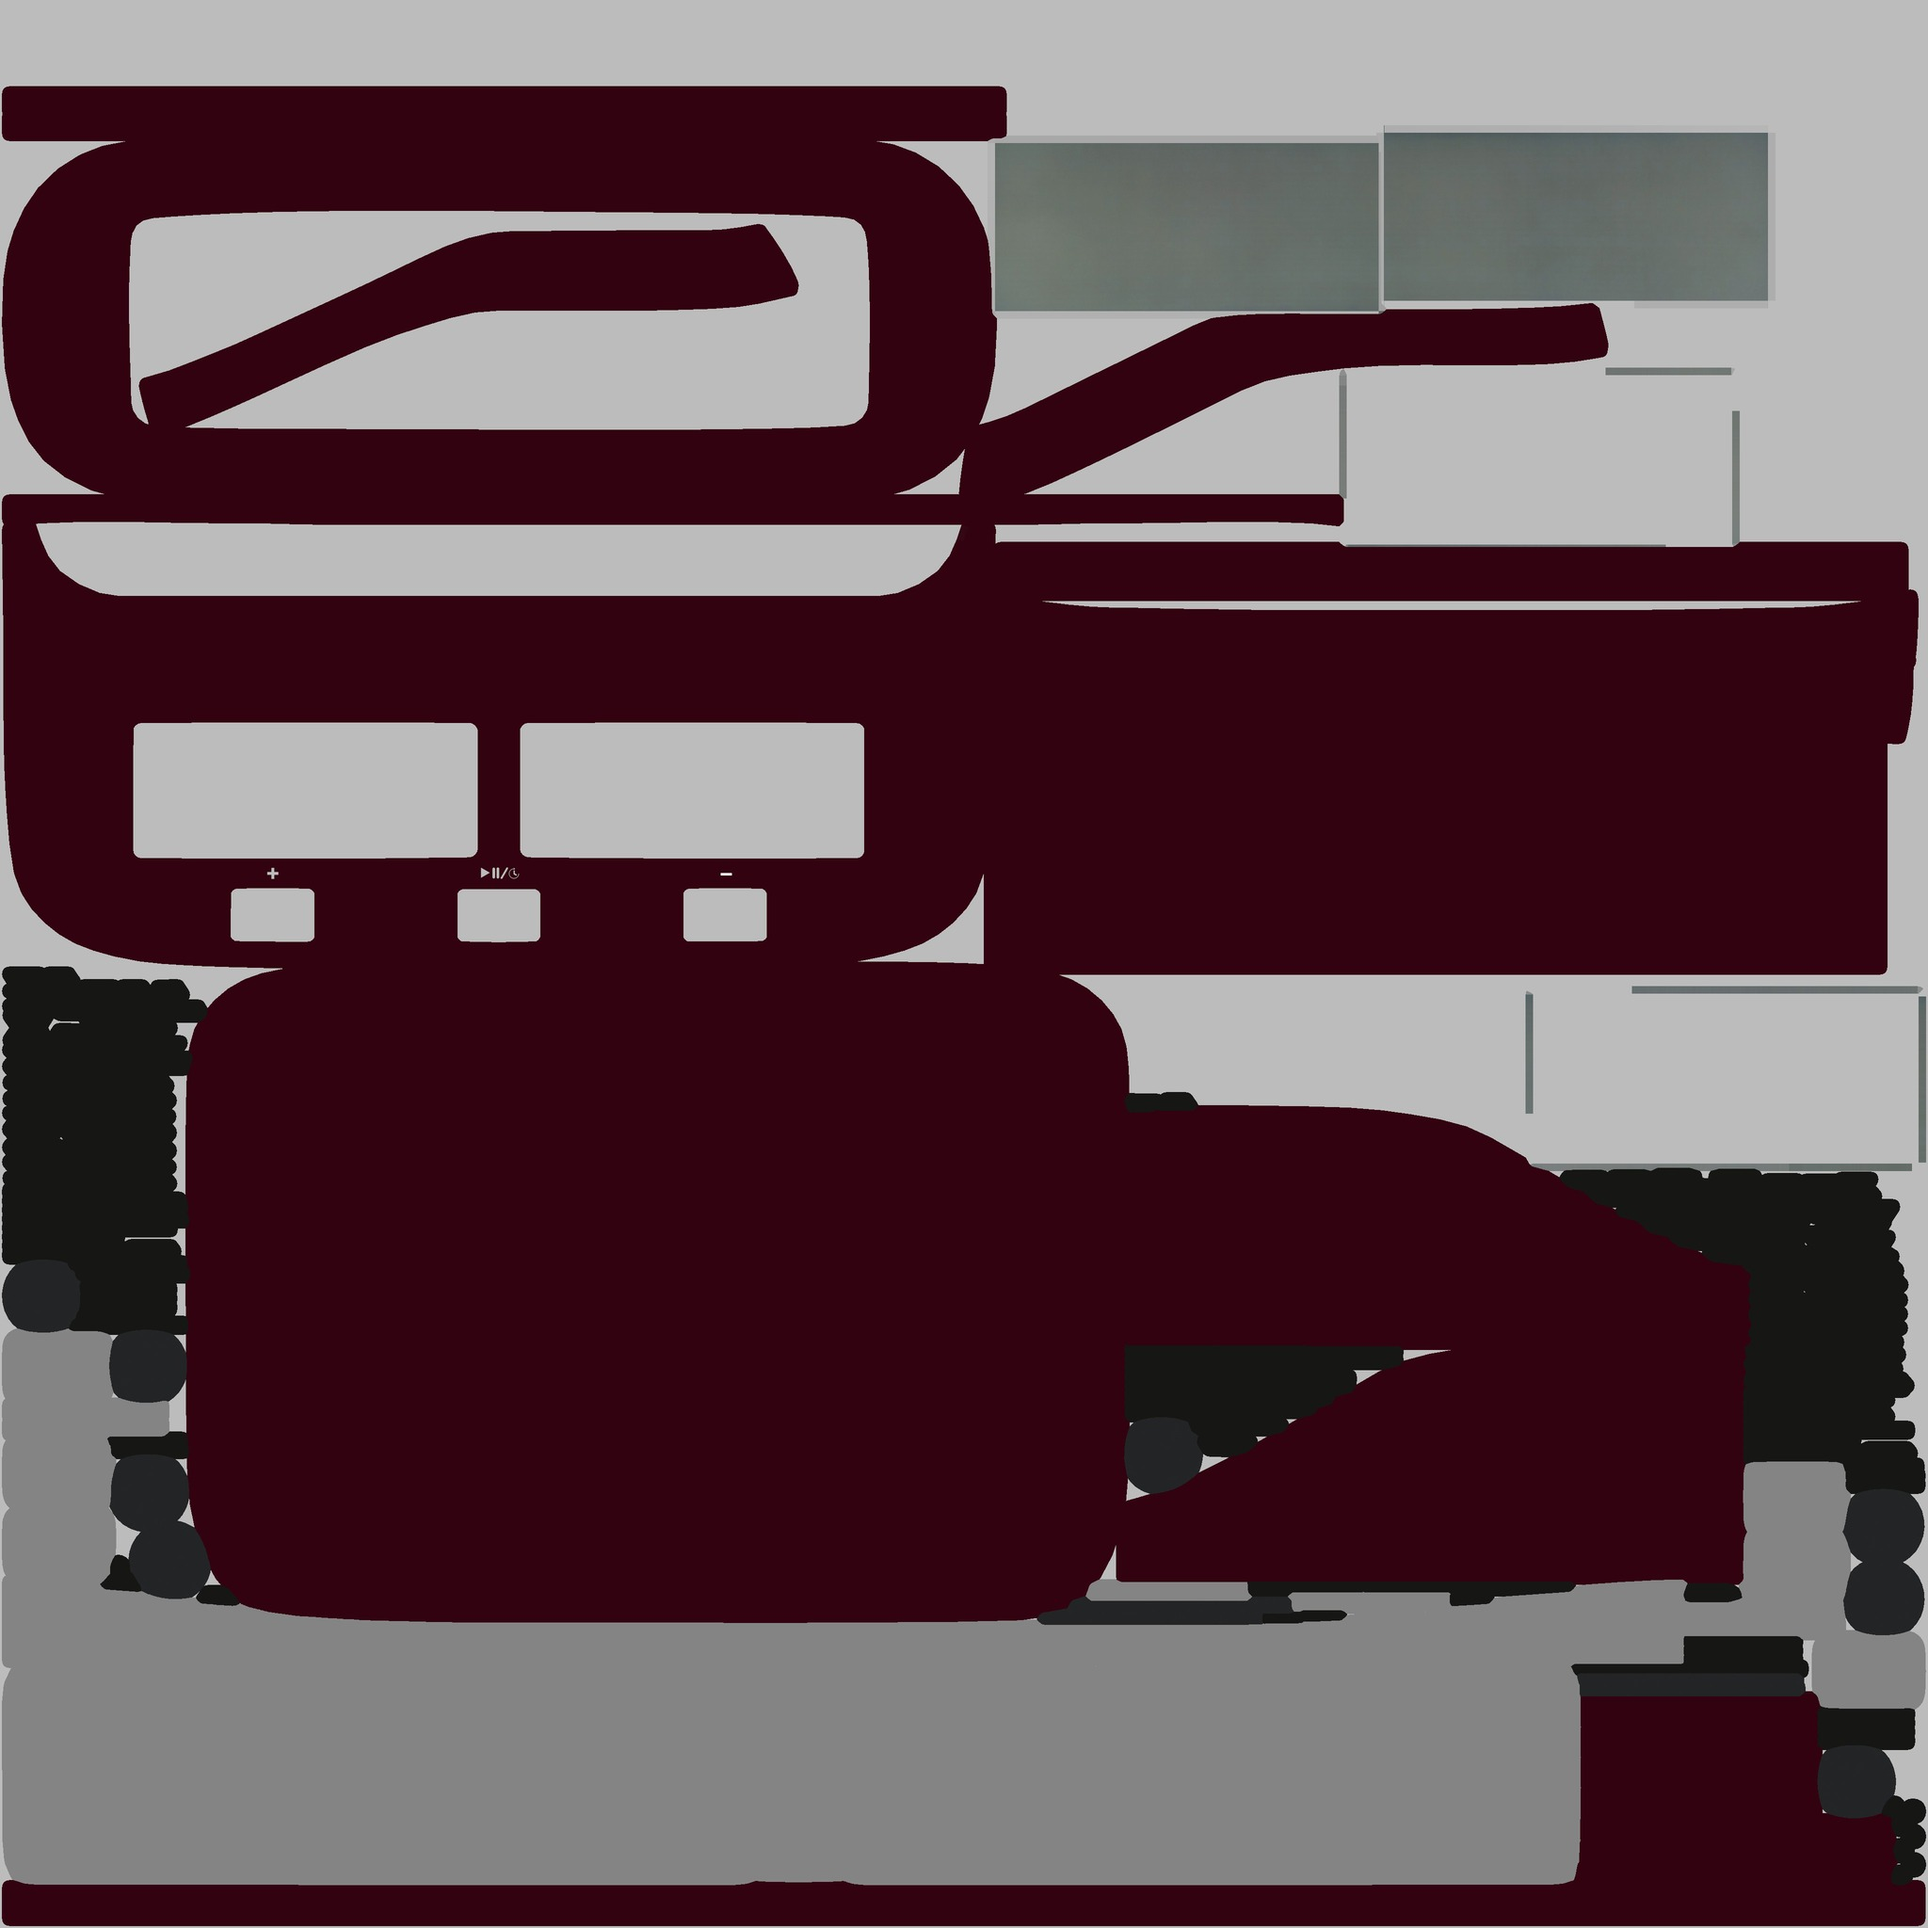
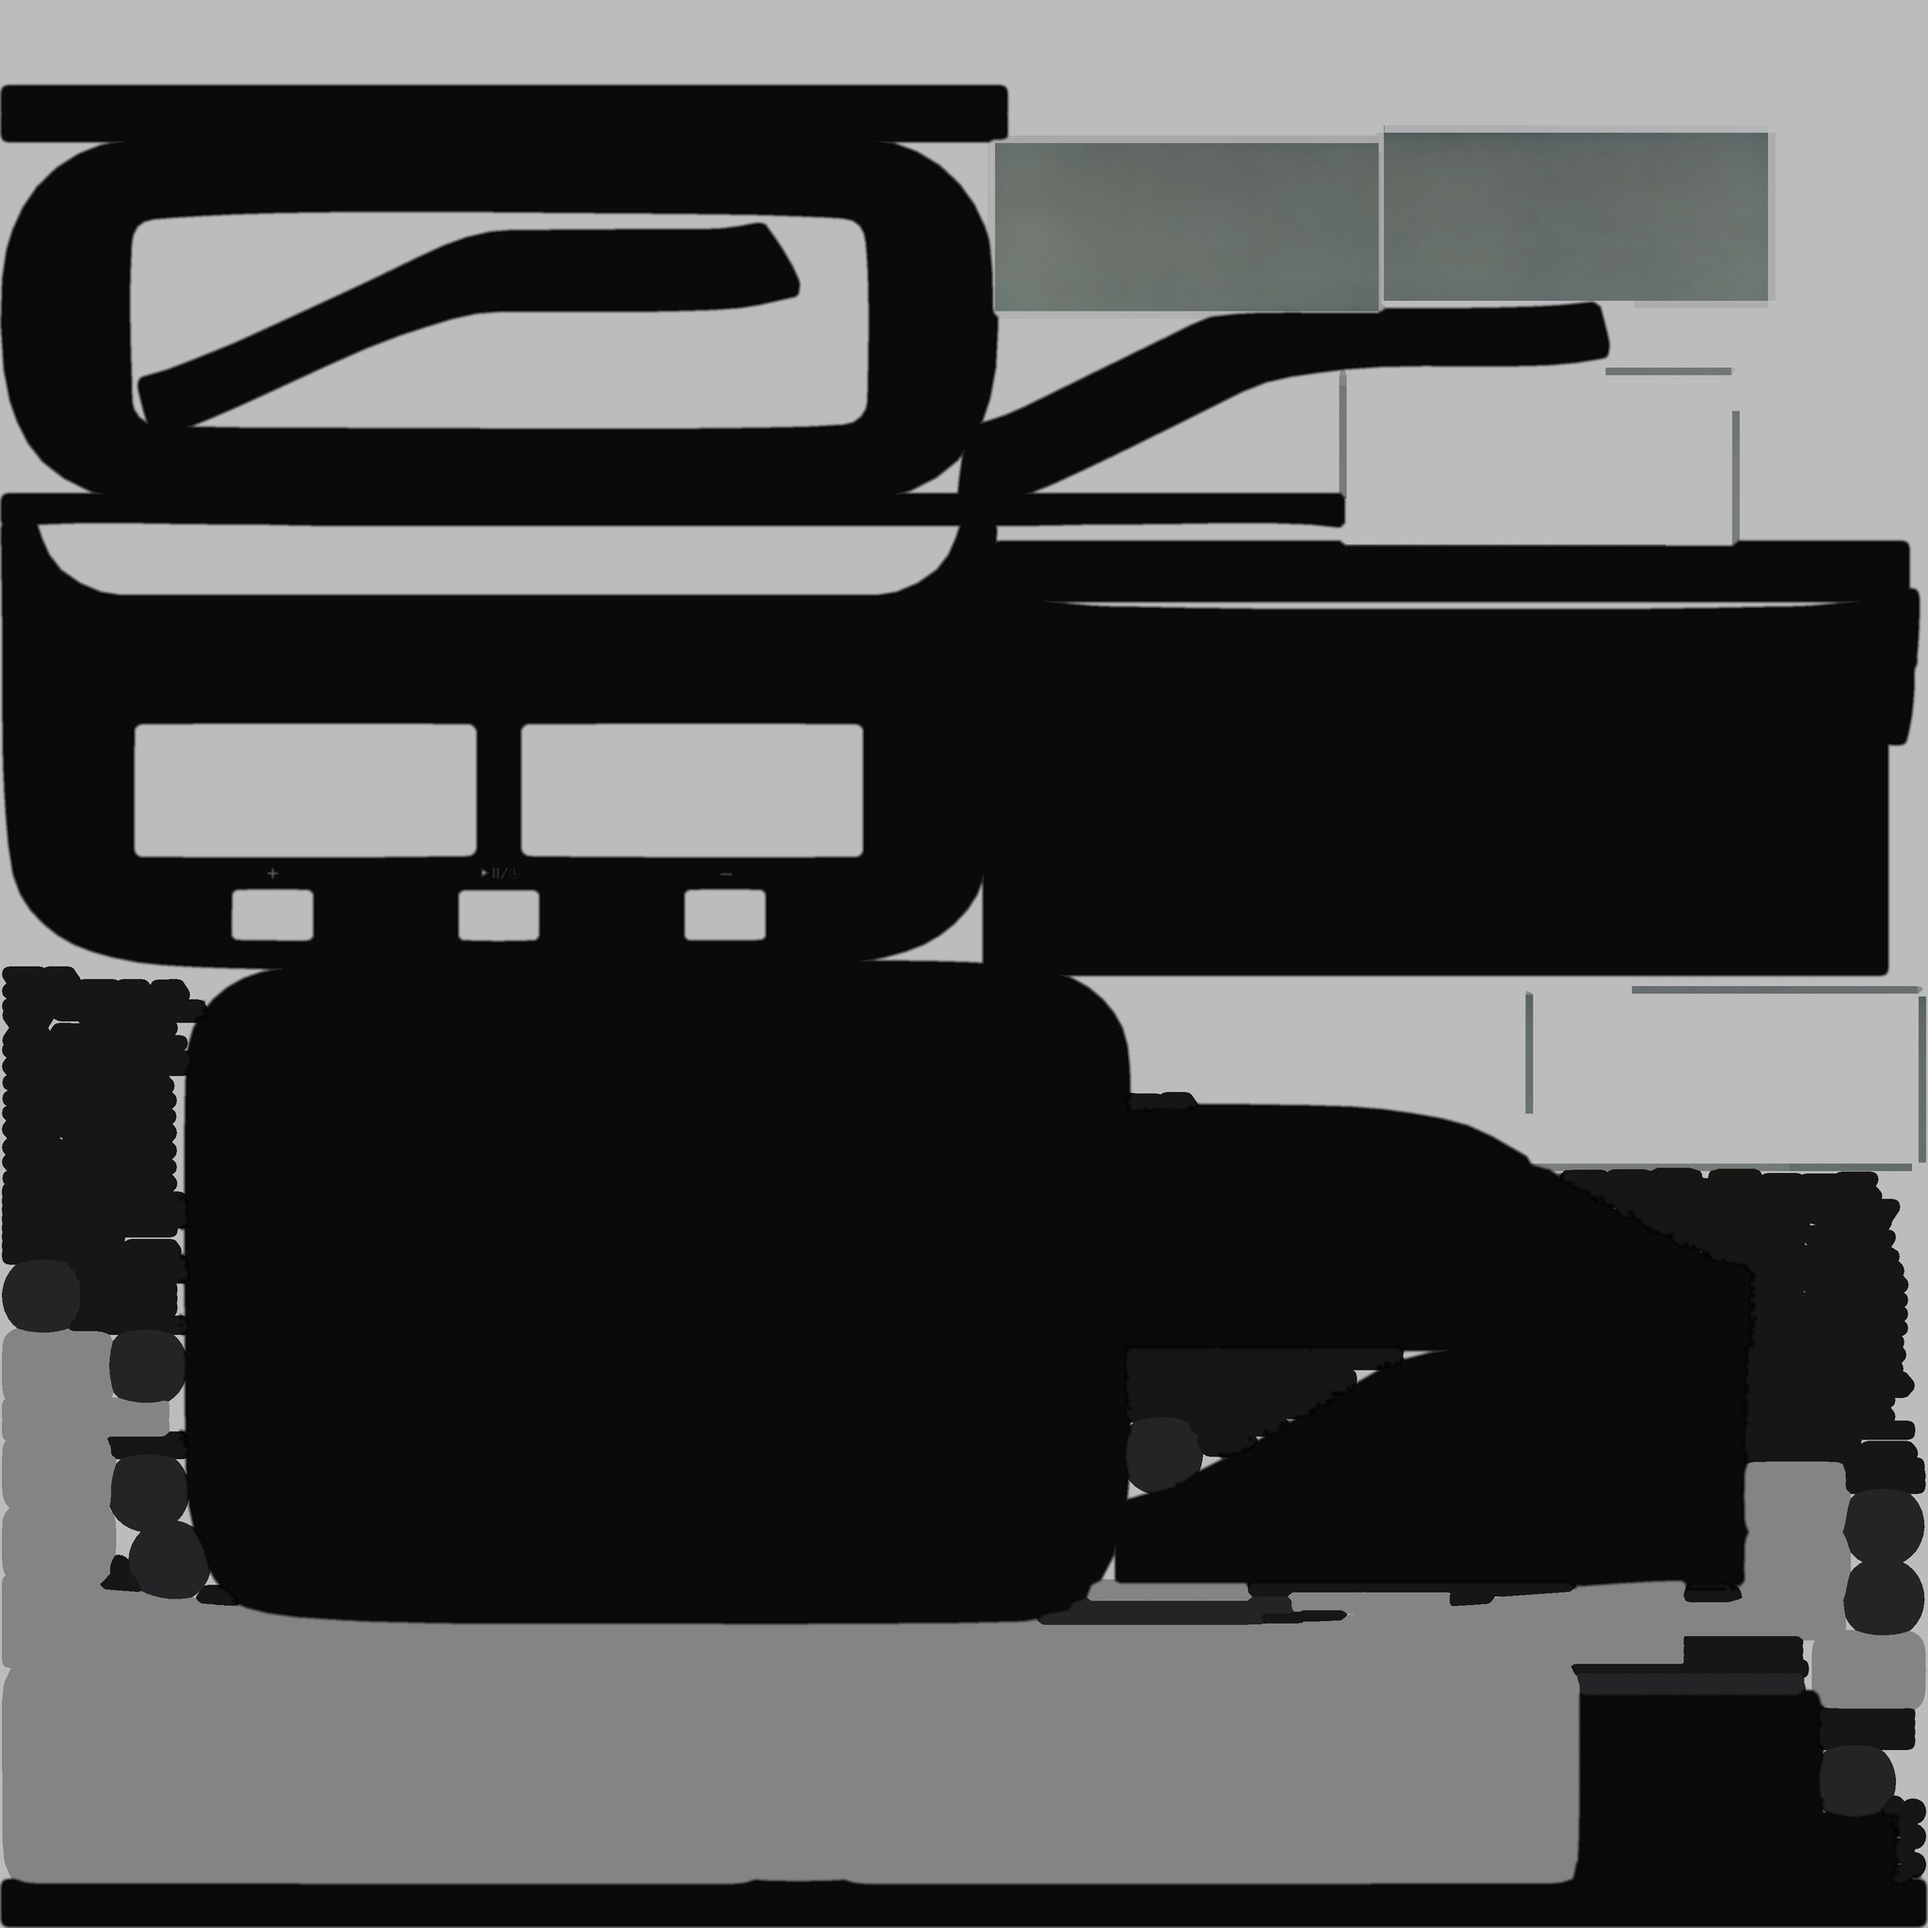
datacenter: recolour the digital clock body to black
New --body-black pass in tools/convert_dgt_clock.py: saturated-red mask
(dilated + feathered so island borders don't fringe) swaps the maroon
body for charcoal, value channel preserved so the baked shading stays;
grey rocker/buttons/LCD windows and white printed labels untouched.
Texture-only change - meshes re-exported byte-identical.

Claude-Session: https://claude.ai/code/session_012ynyRFJXZe3QSCAJohX3AR

diff --git a/tools/convert_dgt_clock.py b/tools/convert_dgt_clock.py
@@ -51,6 +51,9 @@ ap.add_argument("--tex-dir", required=True)
 ap.add_argument("--out-dir", default="models/clock")
 ap.add_argument("--width", type=float, default=3.0,
                 help="fitted engine width (analog clock = 3.0)")
+ap.add_argument("--body-black", action="store_true",
+                help="recolour the maroon body to charcoal black (keeps the "
+                     "grey rocker/buttons/LCD and the white printed labels)")
 args = ap.parse_args(argv)
 
 BODY = ["cdtgc_housing", "cdtgc_display", "cdtgc_legs", "cdtgc_timer_buttons"]
@@ -151,6 +154,21 @@ td = args.tex_dir
 base = Image.open(f"{td}/chessclockdigital_clocks_Mat_BaseColor.png").convert("RGB")
 ao = Image.open(f"{td}/chessclockdigital_clocks_Mat_AO.png").convert("L").resize(base.size)
 b = np.asarray(base).astype(np.float32)
+if args.body_black:
+    # Saturated-red mask -> charcoal, value channel preserved so the
+    # baked shading survives. Dilate + blur the mask a touch so bilinear
+    # sampling at island borders doesn't leave maroon fringes.
+    from PIL import ImageFilter
+    r, g, bl = b[..., 0], b[..., 1], b[..., 2]
+    mx = b.max(-1)
+    sat = (mx - b.min(-1)) / (mx + 1e-6)
+    mask = ((sat > 0.25) & (r > np.maximum(g, bl) * 1.15)).astype(np.uint8) * 255
+    m = Image.fromarray(mask).filter(ImageFilter.MaxFilter(7)) \
+                             .filter(ImageFilter.GaussianBlur(2))
+    m = (np.asarray(m).astype(np.float32) / 255.0)[..., None]
+    charcoal = (mx * 0.20)[..., None].repeat(3, axis=-1)
+    b = b * (1.0 - m) + charcoal * m
+    print(f"body recoloured to charcoal: {float(m.mean()) * 100:.1f}% of atlas")
 a = (np.asarray(ao).astype(np.float32) / 255.0)[..., None]
 diff = Image.fromarray((b * a).clip(0, 255).astype(np.uint8)).resize((2048, 2048), Image.LANCZOS)
 diff.save(f"{args.out_dir}/digital_diffuse.jpg", quality=92)

diff --git a/README_TECHNICAL.md b/README_TECHNICAL.md
@@ -1036,7 +1036,10 @@ walkthrough live in the user guide — see
   for a DGT-style digital clock in the datacenter environment only,
   converted from the professionally-modelled `chessclockdigital v3.1`
   Blender asset (clean 4K PBR atlases, AO premultiplied into the
-  diffuse, downsized to 2K): uniform-scaled to the analog clock's 3.0
+  diffuse, downsized to 2K; the maroon body is recoloured to charcoal
+  black by the converter's `--body-black` saturated-red mask, keeping
+  the grey rocker/buttons/LCD and printed labels): uniform-scaled to
+  the analog clock's 3.0
   width, base at Y=0, centre at X=6.2 (deeper body than the analog
   clock, same ~0.65 gap to the board). Split into body (housing + LCD
   backplate + legs + front buttons) + the big top rocker bar (see-saws
